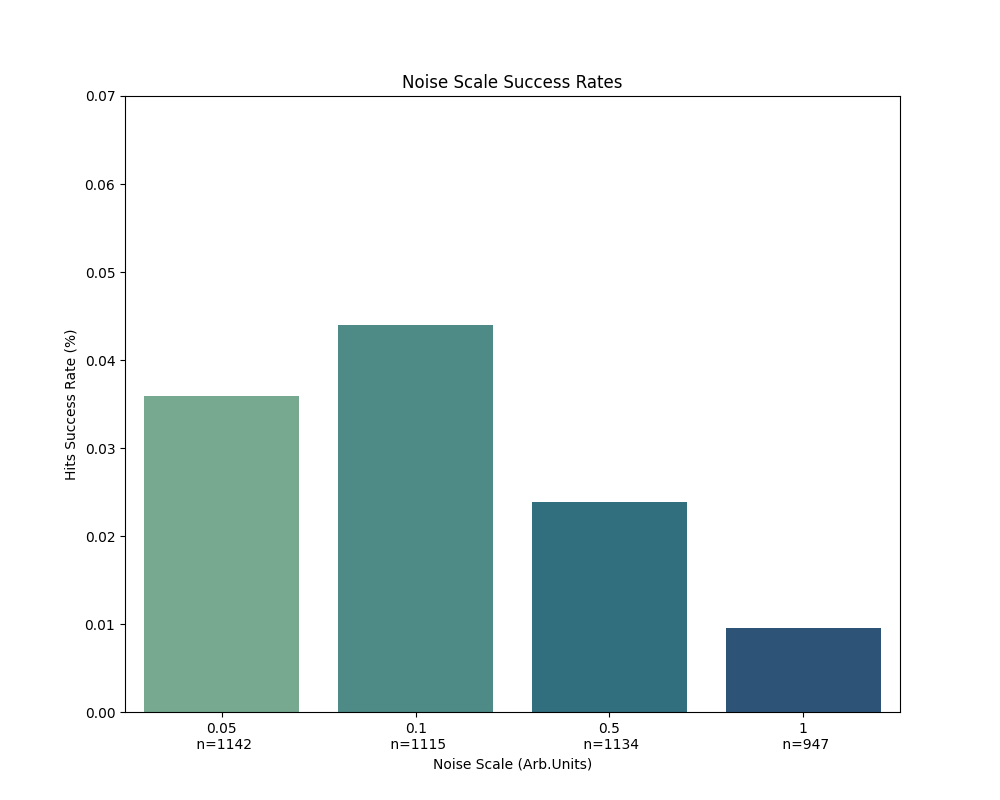
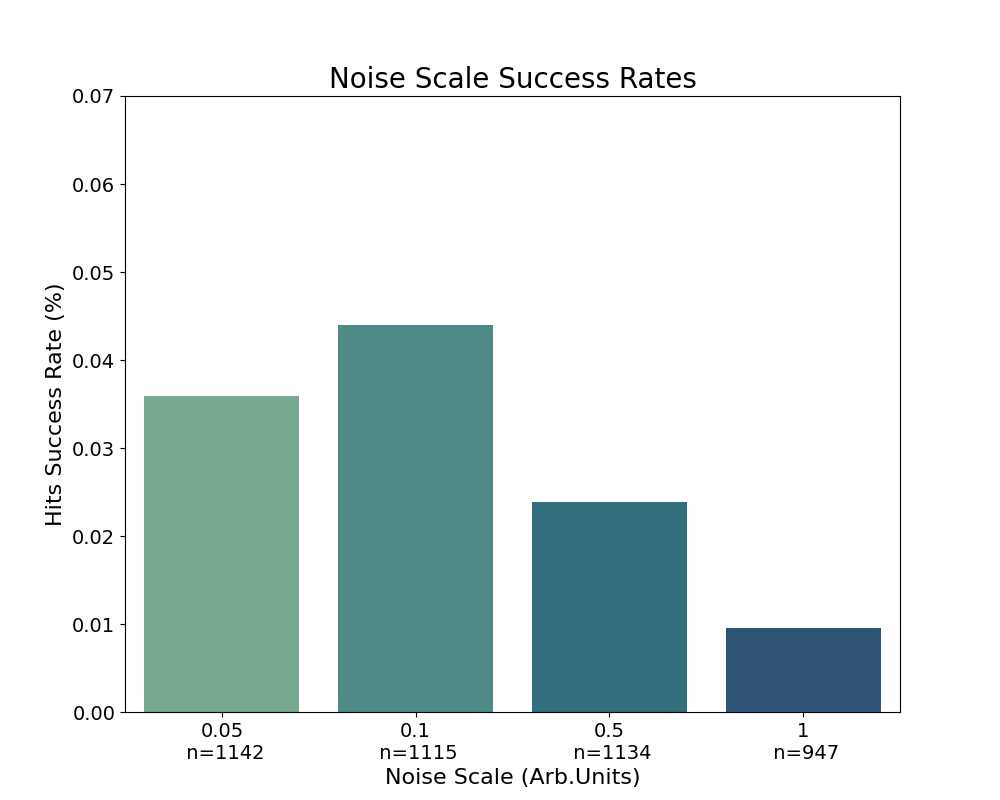
Figures

diff --git a/FIGURES/Fast_relax_figures.py b/FIGURES/Fast_relax_figures.py
@@ -77,7 +77,7 @@ df_plot = pd.DataFrame(data)
 sns.set(style="whitegrid")
 
 # Create a bar plot
-plt.figure(figsize=(8, 6))
+plt.figure(figsize=(10, 8))
 barplot = sns.barplot(x='Campaign', y='Percentage', data=df_plot, palette='crest')
 
 # Add significance bracket with an asterisk
@@ -85,7 +85,6 @@ x1, x2 = 0, 1   # x-coordinates of the bars
 y, h, col = max(df_plot['Percentage']) + 0.01, 0.02, 'k'  # y-coordinate, height of the bracket, color
 plt.plot([x1, x1, x2, x2], [y, y+h, y+h, y], lw=1.5, c=col)
 plt.text((x1+x2)*.5, y+h, "*", ha='center', va='bottom', color=col)
-
 # Add a box with the p-value in the upper left corner
 p_value = 0.048  # Replace with the actual p-value when available
 textstr = f'p-value = {p_value}'
@@ -97,10 +96,13 @@ props = dict(boxstyle='round,pad=0.3', edgecolor='black', facecolor='white')
 
 
 # Add titles and labels
-plt.title('Fast Relax vs No Fast Relax Success Rates')
-plt.ylabel('Hits Success Rate (%)')
-barplot.set_xticklabels((f'Fast Relax\n n={positives_FR + negatives_FR}', f'No Fast Relax\n n={positives_noFR+negatives_noFR}'))
+plt.title('Fast Relax vs No Fast Relax Success Rates', fontsize=20)
+plt.ylabel('Hits Success Rate (%)', fontsize=16)
+plt.xlabel('Campaign', fontsize=16)
+barplot.set_xticklabels((f'Fast Relax\n n={positives_FR + negatives_FR}', f'No Fast Relax\n n={positives_noFR+negatives_noFR}'), fontsize=14)
 # Show the plot
+plt.tick_params(axis='y', labelsize=14)
+
 plt.ylim((0,0.07))
 plt.savefig('/home/cchacon/Carlos_scripts/FIGURES/FastRelaxvsNoFRSuccessRates.png')
 

diff --git a/FIGURES/Noise_Scale_figures.py b/FIGURES/Noise_Scale_figures.py
@@ -34,19 +34,22 @@ for noise in df_filtered_112['Noise'].unique():
 df_barplot['Percentage']=percentage
 #Barplot success rate
 plt.figure(figsize=(10, 8))
+
 barplot = sns.barplot(x='Noise', y='Percentage', data=df_barplot, palette='crest')
 
 # Add titles and labels
-plt.title('Noise Scale Success Rates')
-plt.ylabel('Hits Success Rate (%)')
-plt.xlabel('Noise Scale (Arb.Units)')
+plt.title('Noise Scale Success Rates',fontsize=20)
+plt.ylabel('Hits Success Rate (%)',fontsize=16)
+plt.xlabel('Noise Scale (Arb.Units)', fontsize=16)
 barplot.set_xticklabels((f'0.05\n n={len( df_filtered_112[df_filtered_112["Noise"]==0.05])}', 
                          f'0.1\n n={len(df_filtered_112[df_filtered_112["Noise"]==0.1])}', 
                          f'0.5\n n={len(df_filtered_112[df_filtered_112["Noise"]==0.5])}', 
-                         f'1\n n={len(df_filtered_112[df_filtered_112["Noise"]==1])}'))
+                         f'1\n n={len(df_filtered_112[df_filtered_112["Noise"]==1])}'), fontsize=14)
 
 # Show the plot
 plt.ylim((0,0.07))
+plt.tick_params(axis='y', labelsize=14)
+
 plt.savefig('/home/cchacon/Carlos_scripts/FIGURES/barplot_noisescale.png')
 
 

diff --git a/FIGURES/Figure_noise_steps.py b/FIGURES/Figure_noise_steps.py
@@ -37,14 +37,15 @@ plt.figure(figsize=(10, 8))
 barplot = sns.barplot(x='Noise', y='Percentage', data=df_barplot, palette='crest')
 
 # Add titles and labels
-plt.title('Noise Steps Success Rates')
-plt.ylabel('Hits Success Rate (%)')
-plt.xlabel('Noise Steps (#)')
+plt.title('Noise Steps Success Rates', fontsize=20)
+plt.ylabel('Hits Success Rate (%)', fontsize=16)
+
+plt.xlabel('Noise Steps (#)', fontsize=16)
 barplot.set_xticklabels((f'5\n n={len( df_whole[df_whole["Noise_Steps"]==5])}', 
                          f'10\n n={len(df_whole[df_whole["Noise_Steps"]==10])}', 
                          f'20\n n={len(df_whole[df_whole["Noise_Steps"]==20])}', 
-                         f'30\n n={len(df_whole[df_whole["Noise_Steps"]==30])}'))
-
+                         f'30\n n={len(df_whole[df_whole["Noise_Steps"]==30])}'), fontsize=14)
+plt.tick_params(axis='y', labelsize=14)
 # Show the plot
 plt.ylim((0,0.07))
 plt.savefig('/home/cchacon/Carlos_scripts/FIGURES/barplot_noisesteps.png')
